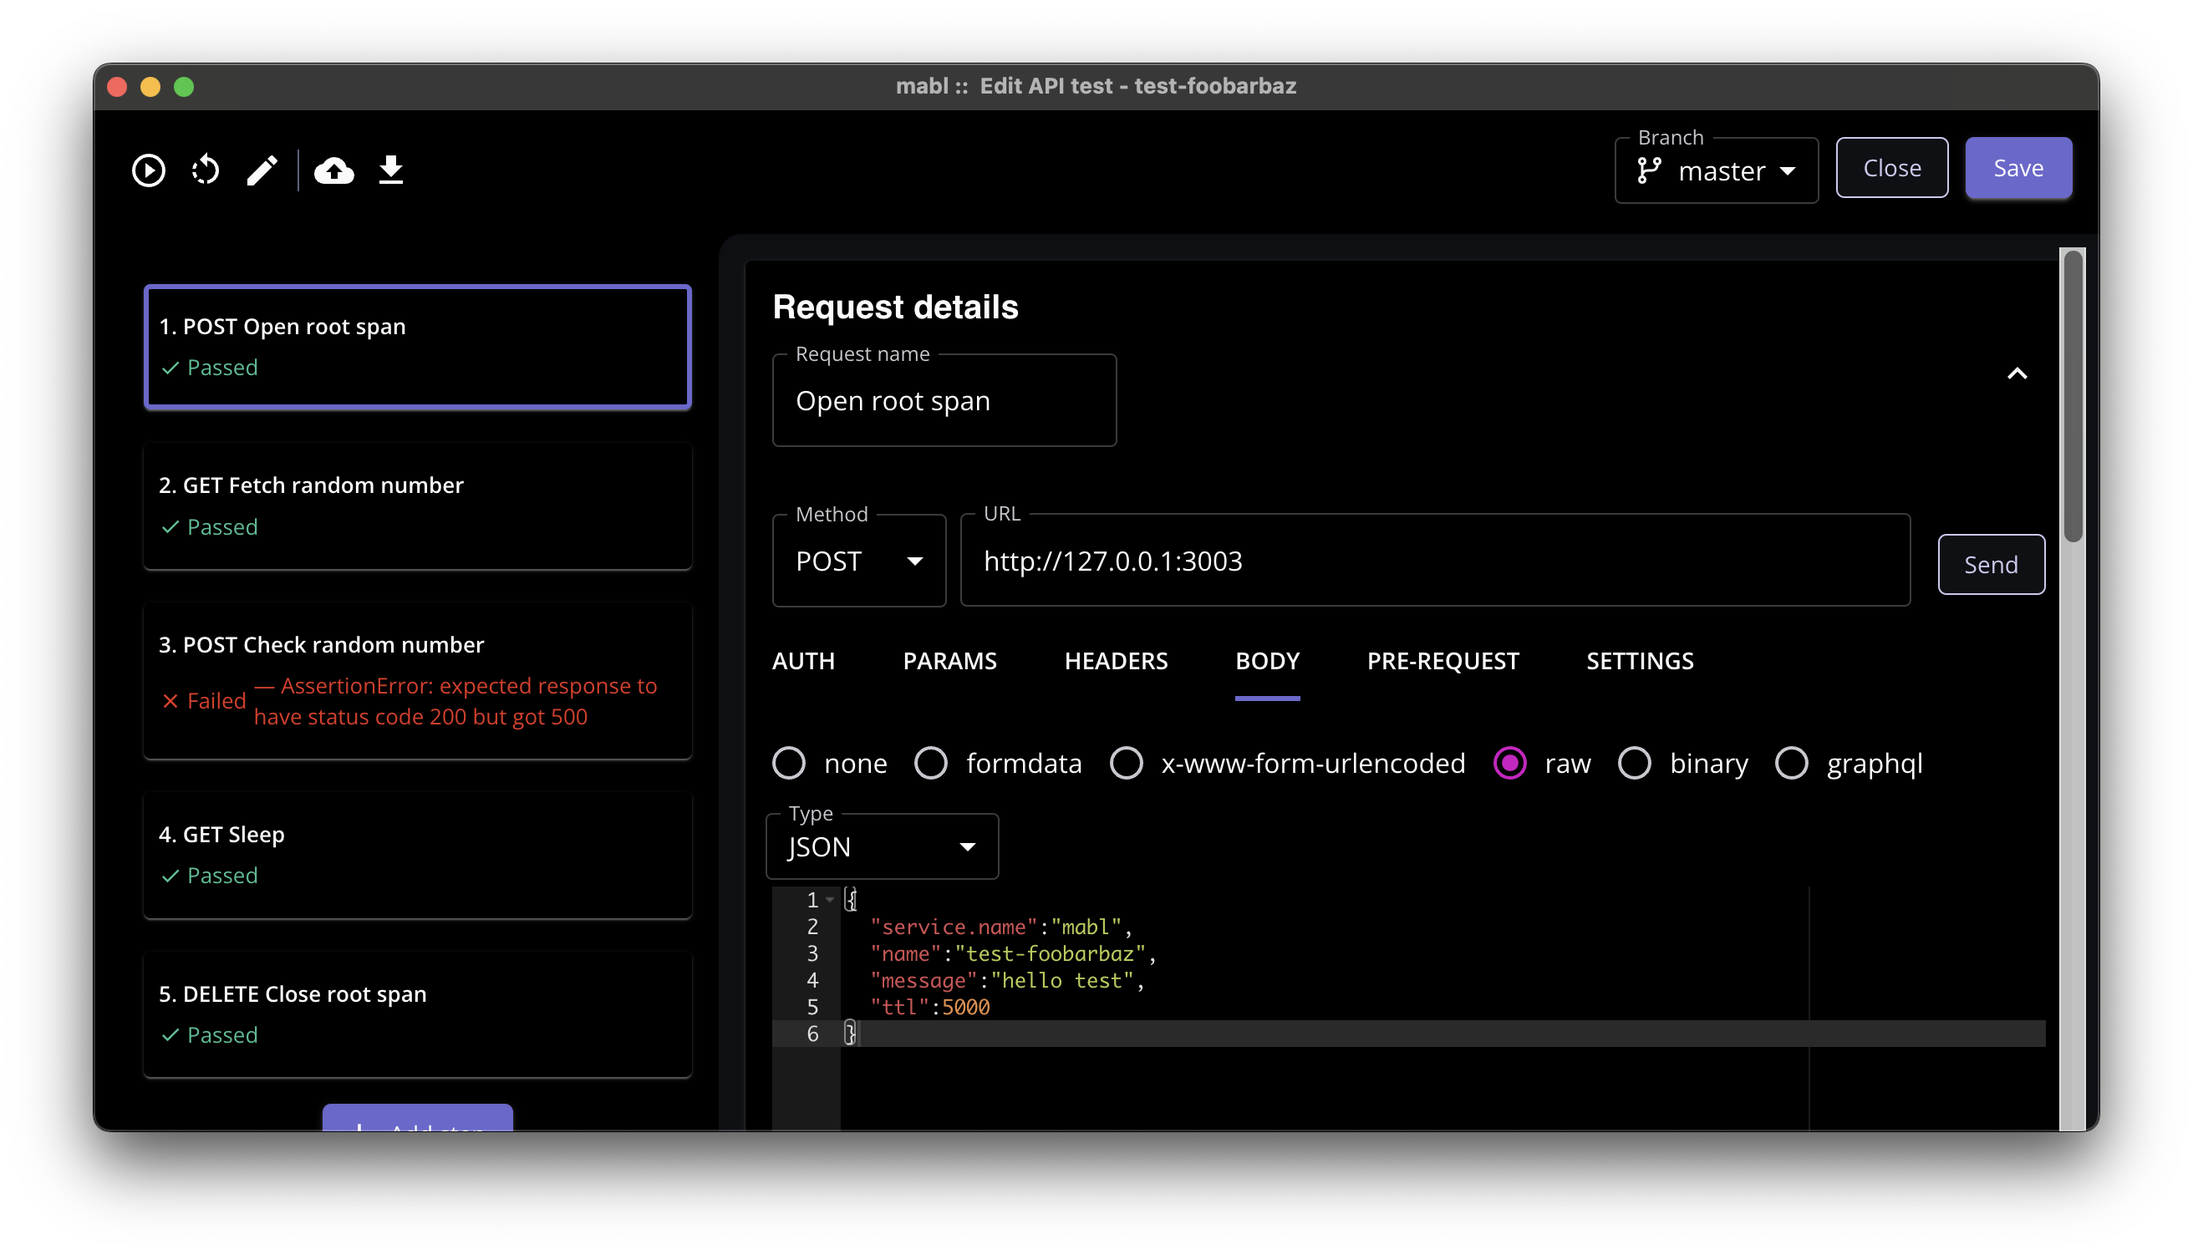
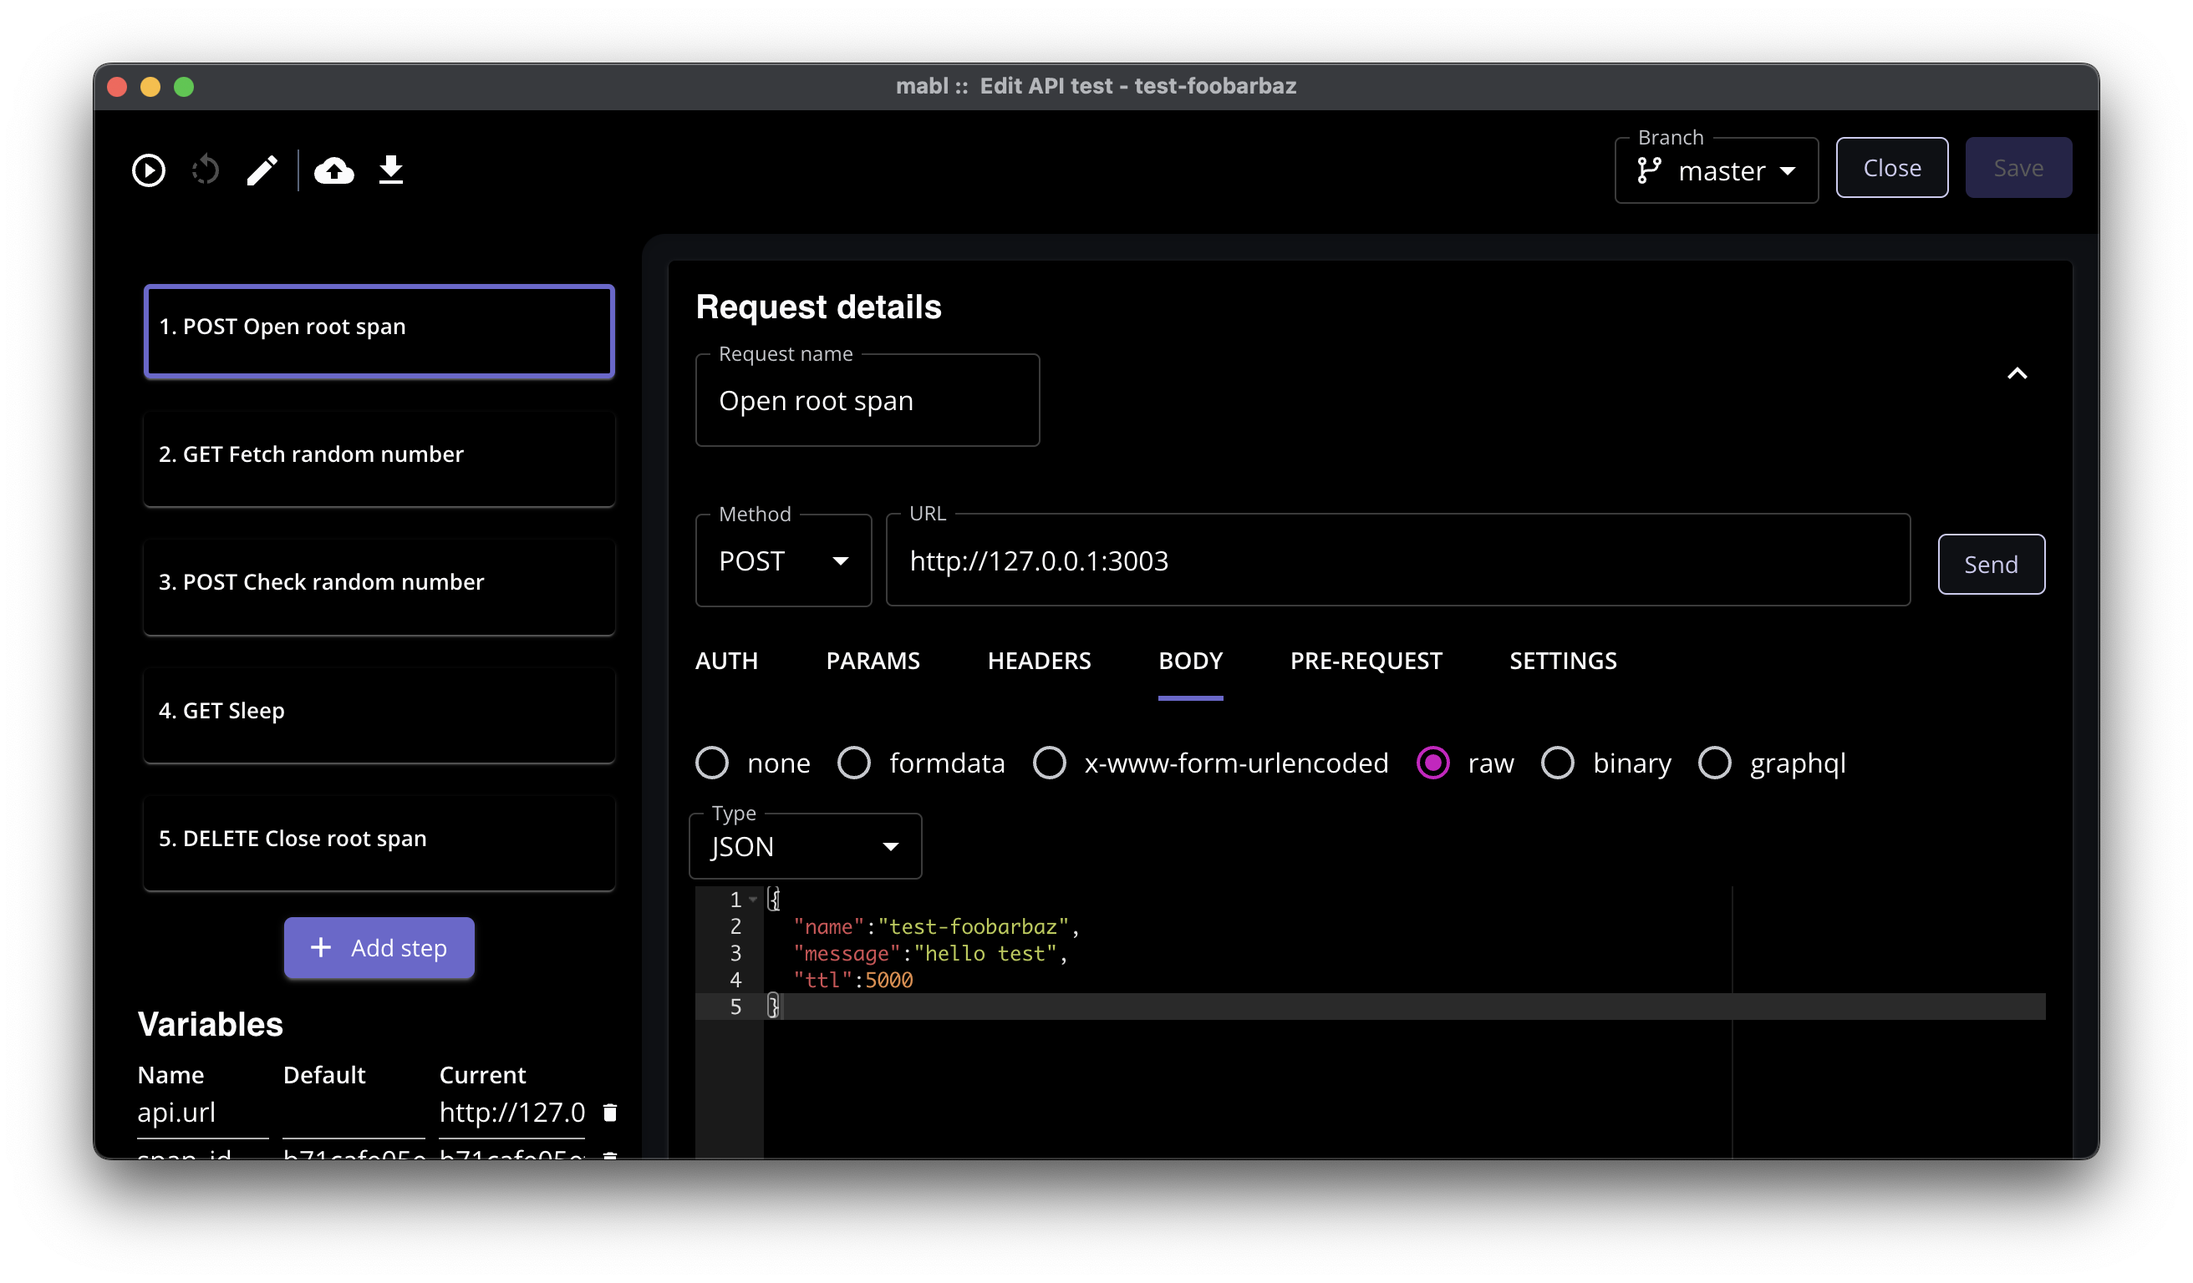
publish testevents

diff --git a/content/posts/testevents.md b/content/posts/testevents.md
@@ -1,42 +1,93 @@
 ---
 title: "Observability for low-code tests"
-date: 2024-09-07
-description: "Create distributed traces in Honeycomb for test-runs in mabl. A boost for debugging and performance tuning, perfect for Observability-During-Development engineering teams."
-tags: ["observability", "testevents", "mabl", "honeycomb.io", "testing"]
+date: 2024-10-01
+description: "Techniques and tools to link your test-runs to your system's OpenTelemetry traces. A boost for debugging and performance tuning, perfect for Observability-During-Development engineering teams."
+tags: ["observability", "testevents", "mabl", "honeycomb.io", "testing", "open-telemetry"]
 type: post
 weight: 25
 showTableOfContents: true
 image: "/images/testevents/testevents.jpeg"
 ---
+
+**NOTE:** _This post was dual published to the mabl blog [here](https://www.mabl.com/blog/observability-for-low-code-tests)_
+
 ![abstract depiction of observability and testing](/images/testevents/testevents.jpeg)
 
-Unit tests are run in the context of the source code. If a Unit test fails, the output points you directly to the lines of code you need to investigate. End-to-end tests, using low-code tools like mabl, are run in the context of the system. This could be a test or production environment, but it's against a full running system. You're not inside your IDE anymore, in fact the test runs may be triggered based on a time or CI/CD so you may not be in front of a computer at all! So, how can we bridge the gap from the test-run, back to the source code like we can with a Unit test?
+Unit tests run in the context of your source code. If a Unit test fails, the output points you directly to the lines of code you need to explore. End-to-end tests, using low-code tools like [mabl](https://mabl.com), run in the context of the whole system. You're not inside your IDE anymore, in fact the test runs may be triggered based on time or CI/CD. You may not be in front of a computer at all! So, how can we bridge the gap from the test-run back to the source code, like a unit test?
 
-Observability tools, like Honeycomb, take telemetry produced by your code and provide a way to query this in the context of the whole system. We can easily find raised exceptions, slow functions, method calls correlated by a user_id, transactions over a database, you name it! You're limited only by how well your system is instrumented. (If you're familiar with logging but not tracing, [this blog post](https://www.honeycomb.io/blog/observability-is-about-confidence) is a simple introduction.)
+Observability tools, like [Honeycomb](https://honeycomb.io), take [OpenTelemetry](https://opentelemetry.io/) produced by your code and provide a way to query this in the context of the whole system. We can easily find raised exceptions, slow functions, method calls correlated by a user_id, transactions over a database, you name it! You're limited only by how well your system is instrumented.
 
-So, to bridge that gap, this post shows how to make [mabl](https://mabl.com) tests observable in [Honeycomb](https://honeycomb.io).
+So, to bridge the test-run-to-code gap, this post shows how to make [mabl](https://mabl.com) tests observable in [Honeycomb](https://honeycomb.io).
 
-## ODD - Observability-During-Development
+_Note that Honeycomb is the excellent Observability tool used in this post, however this is all based on the OpenTelemetry standard so other tools can be used too. For example here's a sneak peak of our API Test in [otel-desktop-viewer](https://github.com/CtrlSpice/otel-desktop-viewer/tree/v0.1.4):_
 
-The [evertz.io](https://evertz.io) engineering team practice [Observability-During-Development](https://www.honeycomb.io/blog/observability-driven-development#h-doing-development-observability-right). Our code includes manual instrumentation to create rich telemetry. We run up stacks in our dev environment and use [Honeycomb](https://honeycomb.io) to help debug, performance tune and generally prove that the code change is working as intended. What we expect from the trace data is checked again after pushing to Prod. Often PRs will include commentary on the observability, links to Honeycomb and screenshots of query results.
+![otel-desktop-viewer trace](/images/testevents/otel-desktop-viewer.png)
 
-### ODT?
+## Quick intro to tracing
 
-Testing is a part of Development, so I don't think we want another acronym! We recently started using [mabl](https://mabl.com) - a low-code testing tool providing a powerful and simplified way to build end-to-end tests at the UI and API level. We're using this to supercharge our end-to-end testing, remove all manual tests, and improve synthetics.
+If you're familiar with logging but not tracing, this blog post is a simple introduction: [Observability Is About Confidence](https://www.honeycomb.io/blog/observability-is-about-confidence).
 
-When mabl runs tests we get telemetry in Honeycomb since it's calling our instrumented code. However, we wanted to see all the telemetry originating from a test-run collected together. Just as test-steps belong to a test, tracing spans for those steps can belong to a parent span.
+![waterfall chart](/images/testevents/waterfall.png)
+
+The trace above, taken from [evertz.io](https://evertz.io), shows the call flow through part of the stack. Each row in the chart is a **span** with a `name`, `service.name` and many other fields provided by your instrumented code. Honeycomb ingests these spans to a powerful database to provide insight into system behaviour, debugging, alerting on trends, service level objectives and a whole lot more.
+
+Notice how `Service Name` starts at the top with `ui`, this is tracing coming from the user's browser. In this case the browser has made a call through a websocket to the backend service `chaas-infrastructure` - this service then makes a lambda call to `websocket-management` and so on. This service-to-service tracing is known as **Distributed Tracing** which we'll get into later in this post.
+
+![span attributes](/images/testevents/fields.png)
+
+Each span can have hundreds of fields (a.k.a. span attributes), the snapshot above is a small section from the `ui` span. Since this span came from the browser, it includes information like `device.type`. Every field across all your services is queryable in Honeycomb allowing you to slice and dice your data in a SQL-like language.
+
+## Linking system traces with test-runs
+
+All this rich data in tracing is amazing! The problem now becomes how to find what you're looking for. Below is a query over 10 minutes, just from the UI dataset in our **Dev** environment: 7442 spans!
+
+![UI traces in 10 mins in dev](/images/testevents/ui-10mins.png)
+
+We want to correlate traces with test-runs. Two key pieces of information that can help are the name of the test and the id of the test-run. For our app we added the ability to inject these values in the querystring: `https://my-app.com/?testName=my_test_name&testRunId=12345` and emit them in the telemetry as: `test.name` and `test.run_id`. Now with a quick filter, the traces we want to look at pop out! 119 versus 7442!
+
+![Filtered UI traces in 10 mins in dev](/images/testevents/ui-10mins-filter.png)
+
+With `test.name` we can find all runs of that test. With `test.run_id` we can find an individual test-run. From the opposite perspective, if you're exploring in Honeycomb you may find an interesting trace and on inspection you can see that it came from a particular mabl test.
+
+In mabl we can use a [Visit Url step](https://help.mabl.com/hc/en-us/articles/19078187143188-Visit-URL-steps) to go to a page with the querystring containing our variables. The test run-id is available in a [Runtime Variable](https://help.mabl.com/hc/en-us/articles/19078174173460-Types-of-variables): `app.test_run_id`. So you could write the url as: `{{@app.url}}/?testName=my_test_name&testRunId={{@app.test_run_id}}`. This works great for cloud runs. You can find the run id here:
+
+![CLI menu](/images/testevents/cli-menu.png)
+
+![CLI resource IDs](/images/testevents/cli-vars.png)
+
+The problem with `app.test_run_id` is for a local run this is always set to `local-run` which doesn't help differentiate between runs when you're debugging. To fix this we can use a simple JavaScript snippet to create a random string when running locally:
+
+```javascript
+function mablJavaScriptStep(mablInputs, callback, id = '{{@app.test_run_id}}') {
+  let result;
+  if (id === 'local-run') {
+    result = id + "-" + Math.random().toString(36).substring(2, 18);
+  } else {
+    result = id;
+  }
+  callback(result);
+}
+```
+
+Follow this with an [Echo Step](https://help.mabl.com/hc/en-us/articles/19078175250324-Echo-steps) so the run-id is easy to find.
+
+To finish this off neatly you can put all this logic into a flow making it really easy to reuse. The flow needs a single parameter for `test.name` making the final url: `{{@app.url}}/?testName={{@flow.test_name}}&testRunId={{@runid}}` where `runid` is the output of the JavaScript snippet.
+
+![Start flow](/images/testevents/start-flow.png)
+
+Here's an example trace from a failing test-run. We were able to take the test-run-id from the cloud-run: `WcCb9KyJO8jXBmTzEybqGQ-jr` and plug it into a query in Honeycomb. Then hone in on this small set of traces to land on a user `click` activity that led to an exception in a back-end microservice.
+
+![Trace showing an error from a click](/images/testevents/click-error.png)
+
+This connection from the test into the system telemetry is very powerful, saving a load of debug time - we now know exactly what went wrong here.
 
 ## Distributed Tracing
 
-OpenTelemetry spans belong to a trace and can have a parent. This parent-child relationship is used in tools like Honeycomb to present waterfall charts of the call stack within a service. Distributed tracing extends this to allow the parent to be a different service from the child. Now you can follow a path from a UI to a back-end service, to a database etc. In our test-run case we can introduce a new parent to represent the test-run so all calls in the run are grouped into a single trace, beautiful!
-
-When a parent process calls a child it passes a [`traceparent`](https://www.w3.org/TR/trace-context/#trace-context-http-headers-format) to link the two together. For HTTP calls the `traceparent` is passed in a header.
-
-We need a way to create a top-level (or root) span for the test-run in mabl, get the `traceparent` and pass it as a header into subsequent calls. We then need to send this telemetry to Honeycomb at the end of the test. mabl's Javascript support is great but this is a bit too complex for that.
+It's not always possible to augment the system under test to inject fields for correlation, like we did with the browser app. As an alternative, and arguably superior solution for API testing, we can use Distributed Tracing. We've already seen the parent-child relationships in traces when the control flow passes from service to service. Just as test-steps belong to a test, spans for those steps can belong to a parent span. In our test-run we can introduce a new parent so all calls in the run are grouped into a single trace, beautiful!
 
 ## Enter testevents
 
-I created [testevents](https://github.com/jerbly/testevents) to provide a way for a mabl test to easily "open" and "close" spans using simple API calls. mabl's Browser and API Tests both support an easy way to call an API, parse the output into variables and inject these variables wherever needed in the rest of the test. (testevents was inspired by Honeycomb's [buildevents](https://github.com/honeycombio/buildevents) project which solves a similar problem to instrument CI builds.)
+I created and open-sourced [testevents](https://github.com/jerbly/testevents) to provide a way for a mabl test to easily "open" and "close" spans using simple API calls. mabl's Browser and API Tests both support an easy way to call an API, parse the output into variables and inject these variables wherever needed in the rest of the test. (testevents was inspired by Honeycomb's [buildevents](https://github.com/honeycombio/buildevents) project which solves a similar problem to instrument CI builds.)
 
 ## API Test Example
 
@@ -49,20 +100,19 @@ mabl tells us that we failed an assertion at step 3 - "Check random number", we 
 
 ### Open the root span
 
-Take a look at the trace above. The first row has service name `mabl` with a span named `test-foobarbaz` this matches our test and is simple to query for: `where name = test-foobarbaz` in the `mabl` dataset. The `service.name` and `name` come from the first step in the test-run, a POST to where **testevents** is hosted (in this case `localhost:3003`):
+Take a look at the trace above. The first row has service name `mabl` with a span named `test-foobarbaz` this matches our test and is simple to query for: `where name = test-foobarbaz` in the `mabl` dataset. `service.name` comes from the `OTEL_SERVICE_NAME` env var setting for **testevents**. The only mandatory field `name`, comes from the first step in the test-run, a POST to where **testevents** is hosted (in this case `localhost:3003`):
 
 ![mabl opening the root span](/images/testevents/open-span.png)
 
 ```json
 {
-  "service.name":"mabl",
   "name":"test-foobarbaz",
   "message":"hello test",     
   "ttl":5000
 }
 ```
 
-`service.name` and `name` are mandatory, `ttl` we'll discuss later, any other name-value pair supplied here will be delivered as a span-attribute.
+`ttl` we'll discuss later, any other name-value pair supplied here will be delivered as a span-attribute.
 
 ### trace_id, span_id and traceparent
 
@@ -82,7 +132,7 @@ These three returned fields need to be parsed out into variables:
 
 ### traceparent header
 
-To have the calls to `/foo`, `/bar` and `/baz` belong to the parent we have to pass the `traceparent` as a header:
+To have the calls to `/foo`, `/bar` and `/baz` belong to the parent we have to pass the [`traceparent`](https://www.w3.org/TR/trace-context/#trace-context-http-headers-format) to link them together. For HTTP calls the `traceparent` is passed in a header.
 
 ![mabl traceparent header](/images/testevents/traceparent.png)
 
@@ -129,17 +179,25 @@ Click on the `foo` span and there we see `random_number` = `0.7863946853062118` 
 
 Finally `/baz`, this call is included to show how tracing helps to investigate performance issues. mabl Browser, API and [Performance Tests](https://help.mabl.com/hc/en-us/articles/17687739501588-Getting-started-with-performance-tests) all provide information about the round-trip time for execution steps. This may point you to dive into the call to `/baz`. With the additional tracing we can dig deeper with Honeycomb and see which span is running for a long time. For `GET /baz` the majority of the time, 668ms, is spent in the `baz` span. Less than a millisecond is spent returning the result.
 
-## Browser tests
+## API calls in Browser tests
 
-Techniques for correlating observability data from UI activity with test-runs is a topic for another post. However it's worth including here that you can wrap a Browser test with "open" and "close" span calls in the same way as an API test. **testevents** supports child spans too, with this you can start a new child span for each flow to further refine the context.
+You can wrap a Browser test with "open" and "close" span calls in the same way as an API test. **testevents** supports child spans too, with this you can start a new child span for each flow to further refine the context.
 
 Unlike API tests, Browser tests will stop at the first assertion failure. This means the "close" span steps may not run. This is what `ttl` is for that I mentioned earlier. By providing a time-to-live when you open the span, **testevents** will close it for you with a timeout error when the `ttl` is reached. `ttl` and all other attributes can be updated with a `PATCH`.
 
 ## Summary
 
-mabl will point you to a failing or poorly performing test step. Enclosing the whole test in a parent span and sending the data to Honeycomb, presents you with a single correlated trace. With this you can dig deeper into the fine grained detail within the context of the test.
+mabl will point you to a failing or poorly performing test step. To help bridge the gap from test-run to source code, we use OpenTelemetry tracing with injected correlation fields and distributed traces.
 
-Insights like:
+Test outcomes like:
+> "This test step browser assertion failed"
+
+become insights like:
+
+> "In the previous test step, a button click sent a webservice call that hit a bug in the microservice ..."
+
+and
+
 > "This test step failed and returned 500"
 
 becomes

diff --git a/content/posts/semconv.md b/content/posts/semconv.md
@@ -7,6 +7,8 @@ type: post
 weight: 20
 showTableOfContents: true
 ---
+**NOTE:** _This post was dual published to the Honeycomb blog [here](https://www.honeycomb.io/blog/effective-trace-instrumentation-semantic-conventions)_
+
 ![A dashboard of telemetry](/images/semconv/intro.png)
 
 There’s plenty of literature on the mechanics of instrumenting code with OpenTelemetry and delivering it to Honeycomb. However, I’ve not found many guides on the craft of instrumenting code in order to have a good observability experience in your system. A lot of focus is placed on [automatic instrumentation](https://www.honeycomb.io/blog/what-is-auto-instrumentation)—which is great, particularly if you’re new to observability or retrofitting—but it misses the power of good instrumentation at the application level.
